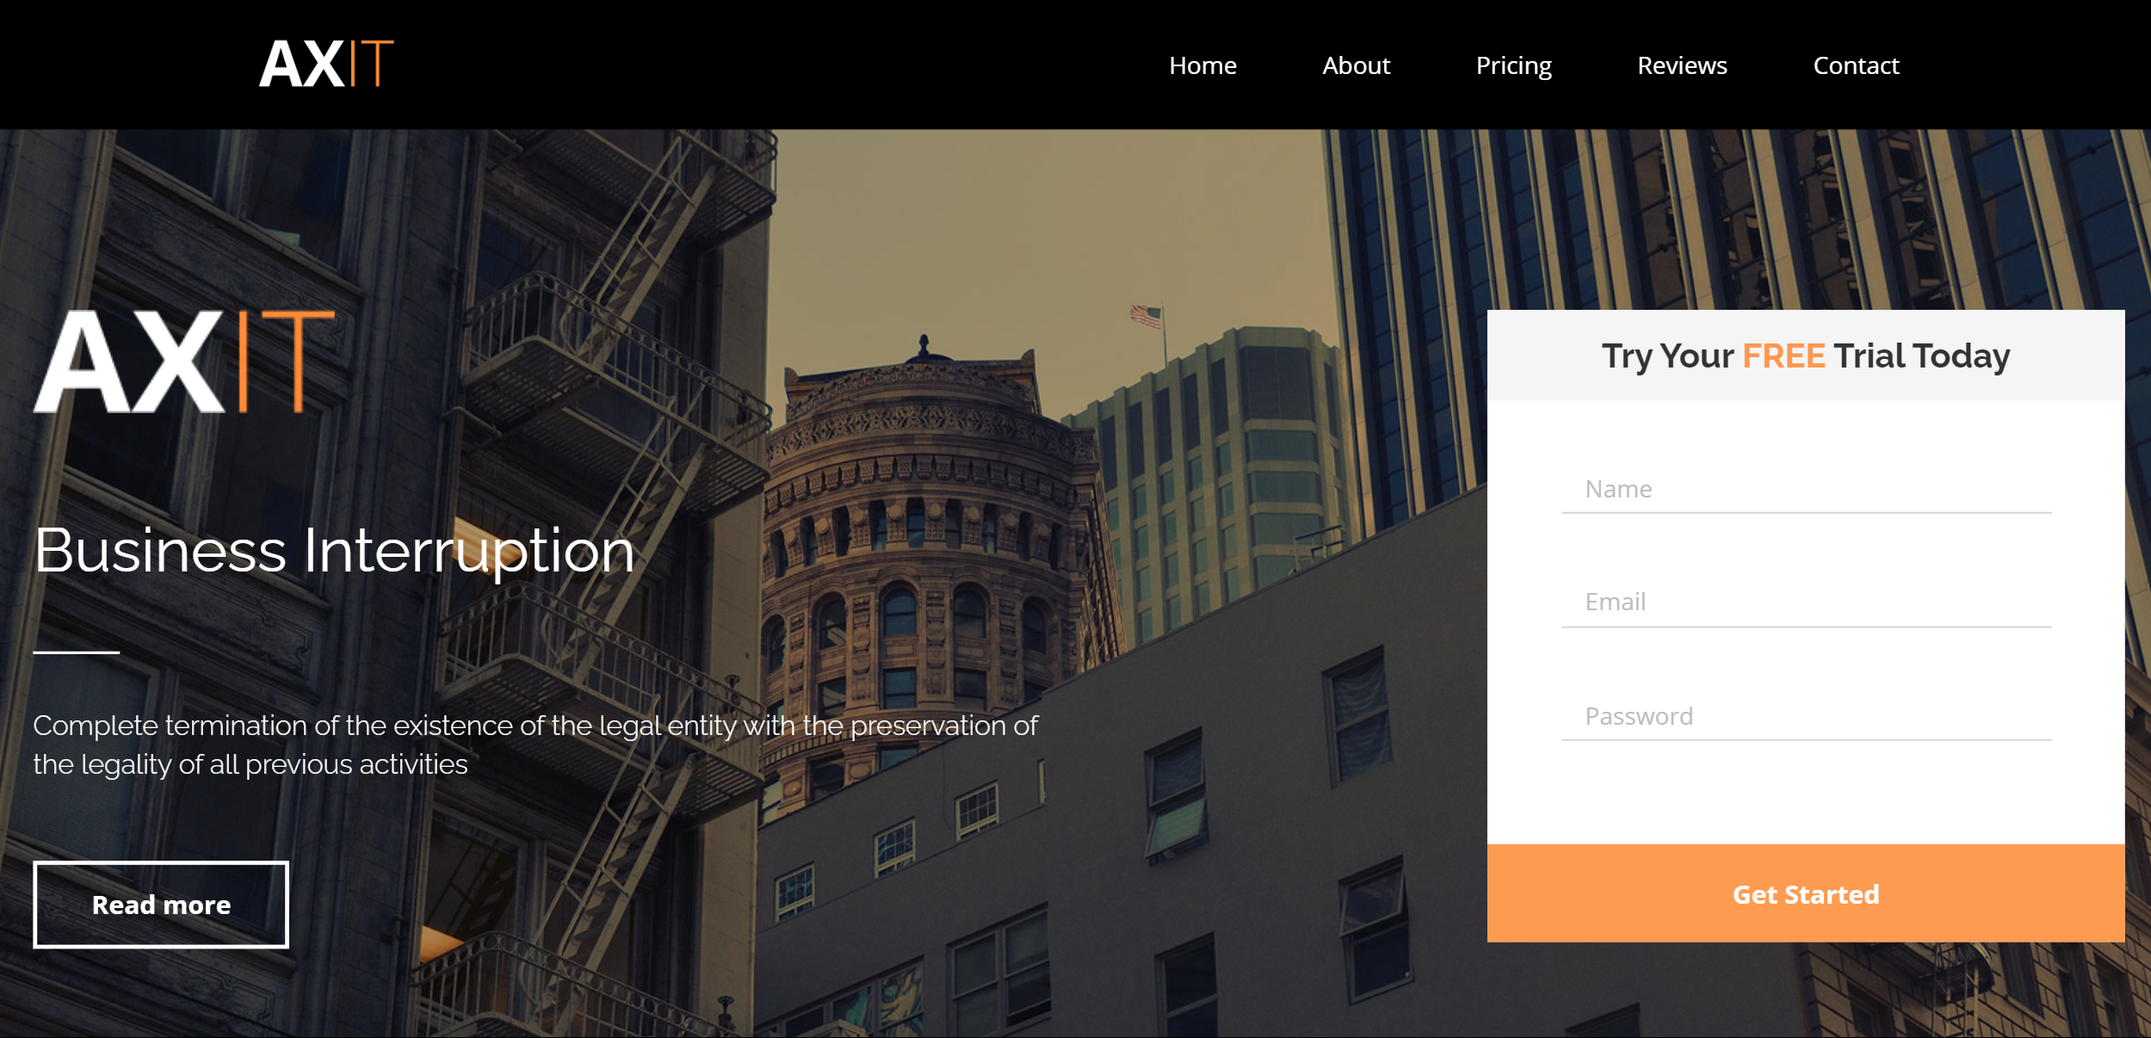
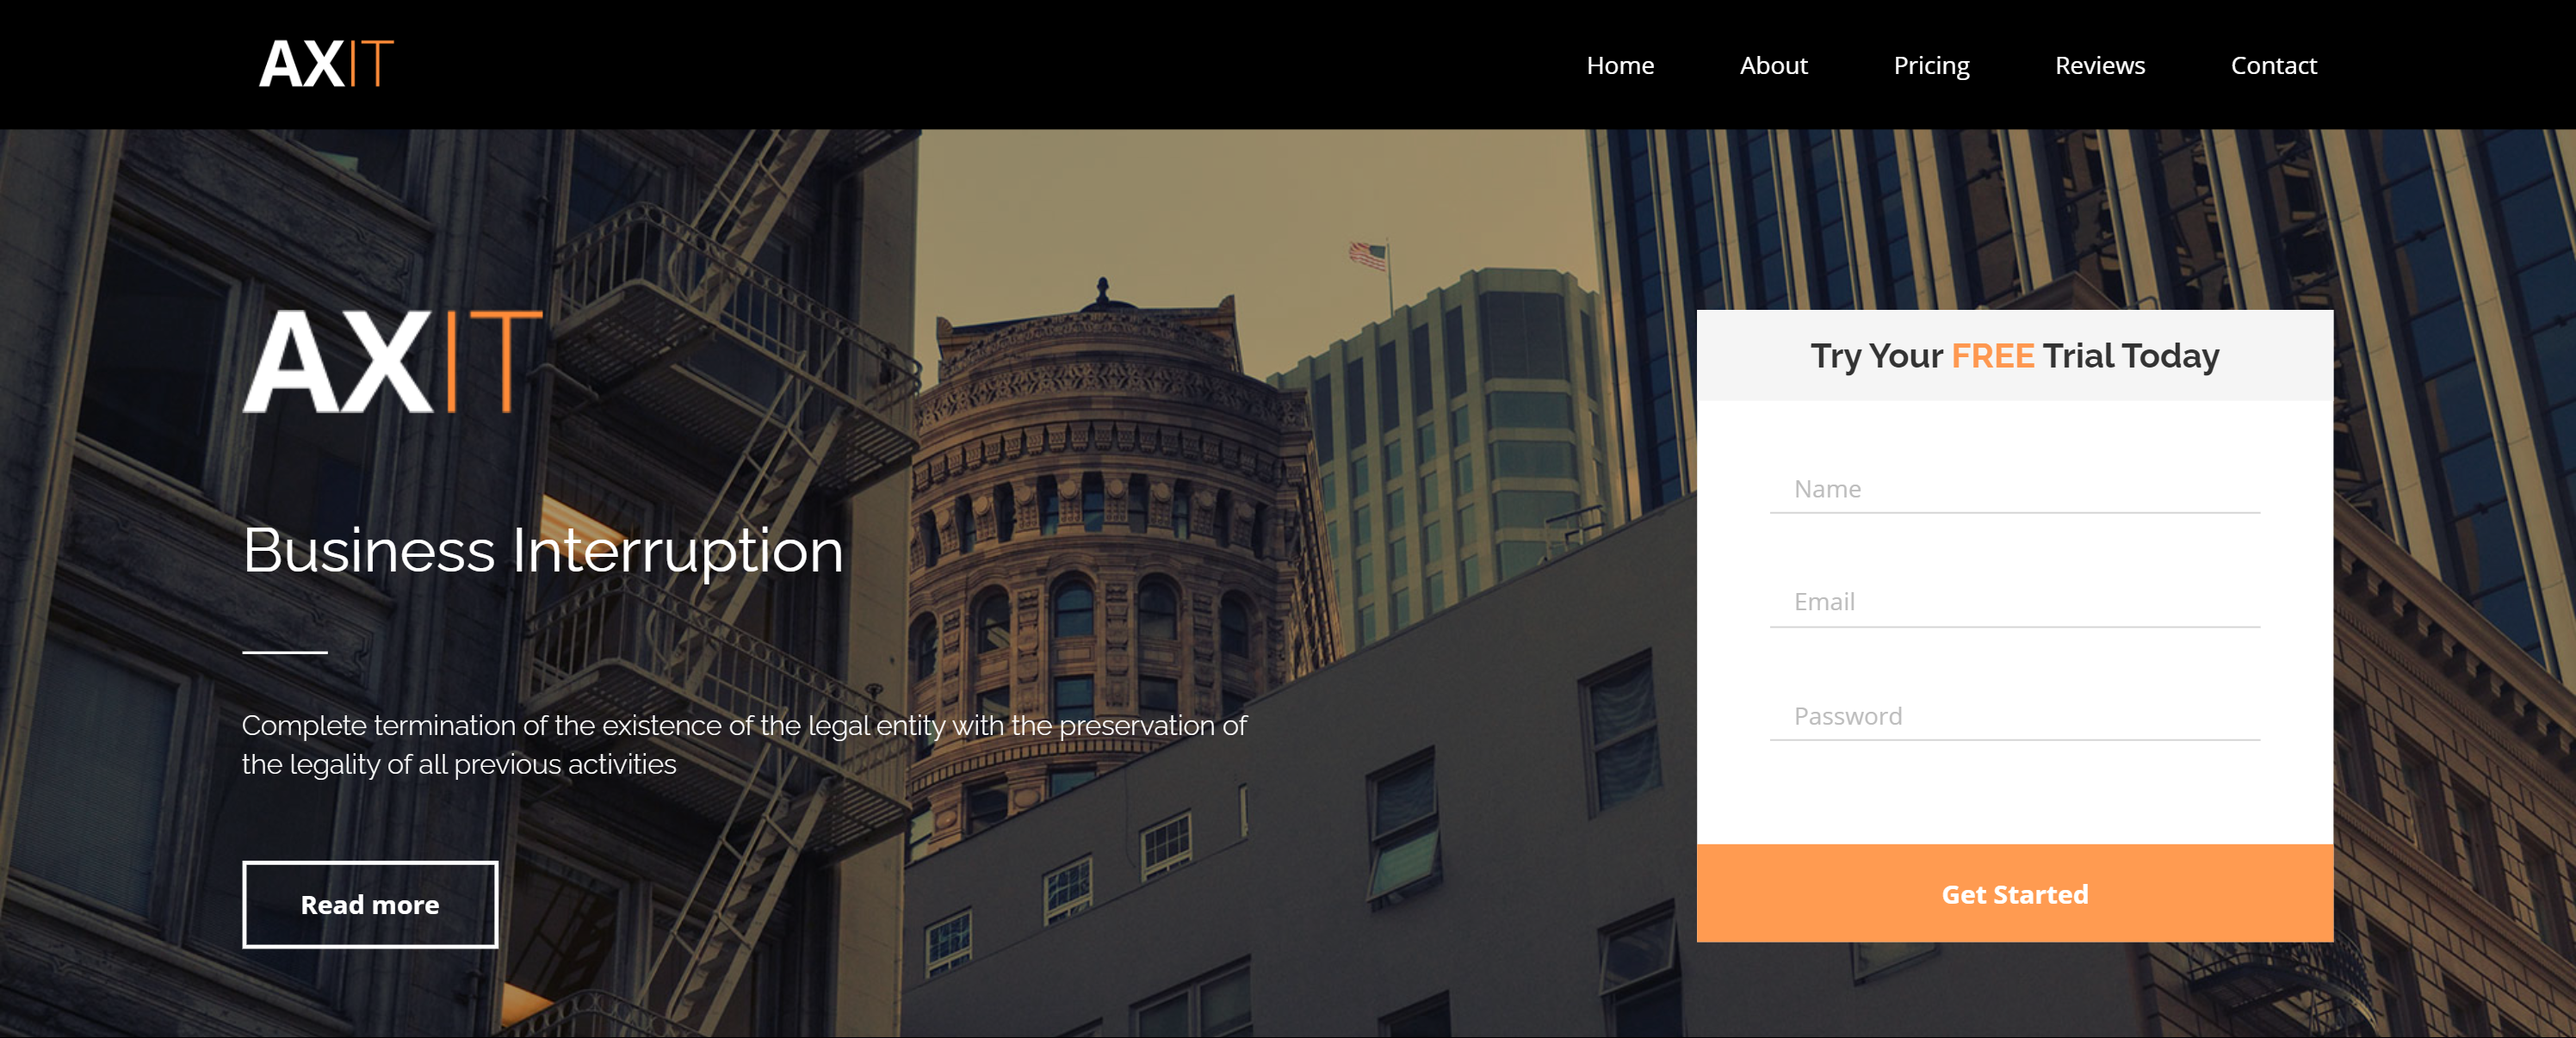
image change

diff --git a/css/style.css b/css/style.css
@@ -39,7 +39,7 @@
 /* Global */
 
 body {
-  background-image: url(../img/draw.jpg);
+  background-image: url(../img/background/draw.jpg);
   background-position: center;
   background-size: cover;
   background-repeat: no-repeat;
